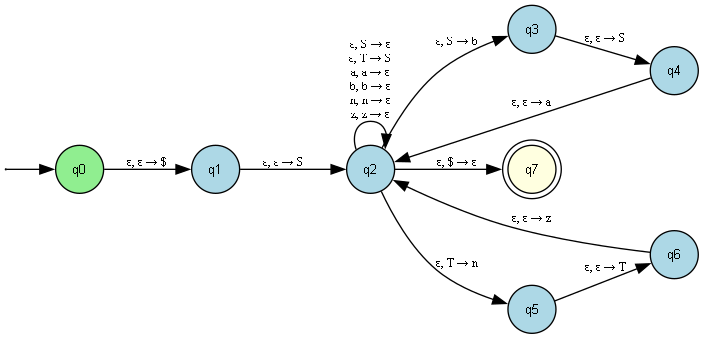
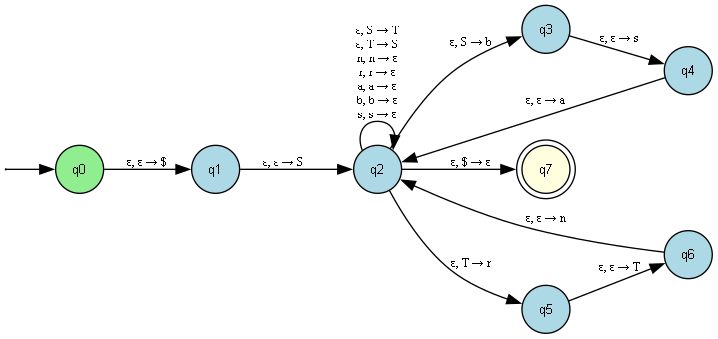
feat: add project documentation and improve CFG parsing logic

diff --git a/app.py b/app.py
@@ -17,12 +17,17 @@ grammar_text = st.text_area(
 
 if st.button("Convert to PDA"):
     try:
-        grammar_lines = grammar_text.splitlines()
+        # split rules by lines and ignore empty lines
+        grammar_lines = [
+            line.strip()
+            for line in grammar_text.splitlines()
+            if line.strip() != ""
+        ]
 
         cfg = parse_cfg(grammar_lines)
         pda = convert_cfg_to_pda(cfg)
 
-        visualize_pda(pda, "pda_result")
+        visualize_pda(pda, "pda_graph")
 
         st.image("pda_graph.png", caption="Generated PDA")
 

diff --git a/cfg_parser.py b/cfg_parser.py
@@ -117,8 +117,9 @@ def print_cfg(cfg):
 if __name__ == "__main__":
 
     grammar_lines = [
-        "S -> aSb | ε",
-        "A -> aA | b"
+        "S -> aSb | T",
+        "A -> aA | b",
+        "T-> nTs|S"
     ]
 
     cfg = parse_cfg(grammar_lines)
